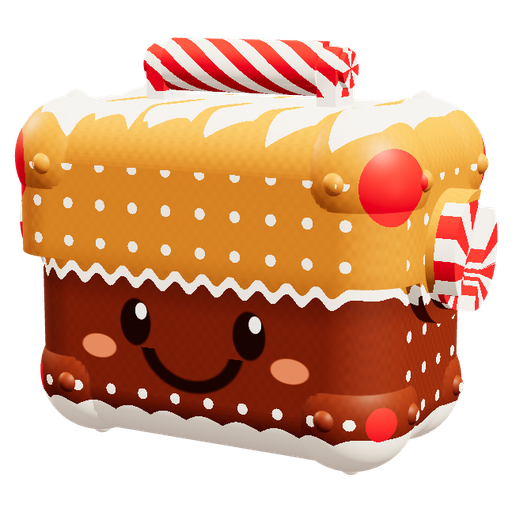
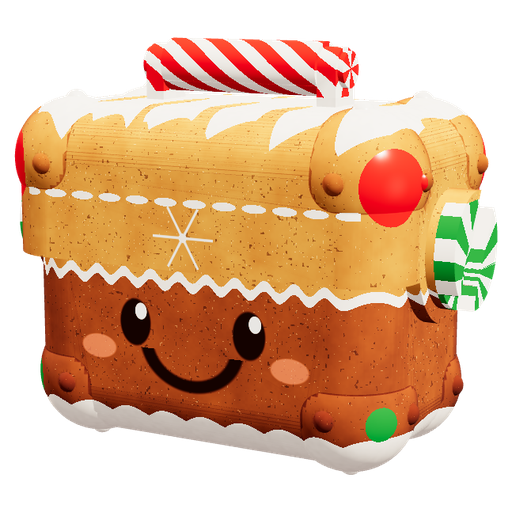
Ginger Box: real gingerbread look (baked dough with spice specks, darker baked edges, glossy royal icing, snowflake, red and green gumdrops)

diff --git a/templates/index.html b/templates/index.html
@@ -25,5 +25,5 @@
   <div class="crafter-launch-date" id="crafter-launch-date"></div>
   <button type="button" class="crafter-launch-admin" id="crafter-launch-admin" hidden>Вход для администратора</button>
  </div>
-</div><div id="splash" class="splash splash-v4" role="status" aria-label="Загрузка Crafter"><div class="sv4-glow" aria-hidden="true"></div><div class="sv4-grid" aria-hidden="true"></div><div class="sv4-stage"><div class="sv4-mark" aria-hidden="true"><svg class="sv4-ring" viewBox="0 0 120 120"><circle class="sv4-track" cx="60" cy="60" r="55"/><circle class="sv4-arc" cx="60" cy="60" r="55"/></svg><img class="sv4-logo" src="/static/icons/crafter-192.png" alt="" width="96" height="96" decoding="async" fetchpriority="high"><i class="sv4-spark a"></i><i class="sv4-spark b"></i><i class="sv4-spark c"></i></div><div class="sv4-brand">Crafter</div><div class="sv4-tag">Маркет Telegram-подарков</div><div class="sv4-status"><span>Загрузка</span><div class="splash-progress" role="progressbar" aria-label="Загрузка Crafter" aria-valuemin="0" aria-valuemax="100" aria-valuenow="0"><span class="splash-progress-fill"></span></div></div></div></div><div id="app"><header><span class="winter-currency-balance" role="status" aria-label="Новогодние шары: 0, пока недоступны" title="Новогодние шары — скоро"><img src="/static/assets/crafter-winter-ornament.png" alt="" width="32" height="32" draggable="false"><b>0</b></span><button type="button" class="games-profile-settings" onclick="crafterOpenSettings()" aria-label="Настройки">⚙</button><button class="brand" onclick="go('market')"><span class="crafter-mark">⌁</span><span>Crafter</span></button><div class="craft-header"><button class="info-btn" onclick="craftRules()" aria-label="Как работает крафт">i</button></div><button type="button" class="staking-rules-button" onclick="stakingRules()" aria-label="Правила стейкинга"><span class="staking-rules-dot" aria-hidden="true">i</span> Правила</button><button class="balance" onclick="go('wallet')"><img class="gram-icon" src="/static/assets/gram.svg" alt=""> <b>0 GRAM</b></button></header><main id="main"></main><nav id="nav"></nav></div><dialog id="sheet"><div class="sheet-head"><h2 id="sheet-title"></h2><button class="close" onclick="closeSheet()" aria-label="Закрыть"><svg viewBox="0 0 24 24" width="19" height="19" fill="none" stroke="currentColor" stroke-width="2" stroke-linecap="round" aria-hidden="true"><path d="M5 5 19 19M19 5 5 19"/></svg></button></div><div id="sheet-body"></div></dialog>{% include 'collection.html' %}<div id="toast" role="status"></div><script>setTimeout(function(){var s=document.getElementById("splash");if(s&&!s.classList.contains("finished")){s.classList.add("finished");var m=document.getElementById("main");if(!m.children.length)m.innerHTML="<div class=empty><h2>Не удалось загрузить приложение</h2><p>Проверьте соединение и попробуйте ещё раз.</p><button class=secondary onclick=location.reload()>Повторить</button></div>";}},18000);</script><script src="/static/app.js?v=load4"></script><script src="/static/cube.js"></script><script src="/static/screens.js?v=res4"></script><script src="/static/catalog-ui.js?v=gram4b"></script><script src="/static/cart.js?v=reset2"></script><script src="/static/gift-animation.js?v=avoid-fragment-storm-20261105"></script><script src="/static/forge.js?v=craft-result-balls-20261108-v3"></script><script src="/static/wallet.js?v=deposit-simplified-20261107-v1"></script><script src="/static/auto-payout-admin.js?v=payout-wizard-v2-20261106"></script><script src="/static/runtime.js?v=market-scroll-optimized-20261105"></script><script src="/static/bot-admin.js?v=ph1"></script><script src="/static/collection.js?v=pack-page3r"></script><script src="/static/market-tools.js?v=withdraw-ui-v1"></script><script src="/static/gift-transfer.js?v=telegram-plane-nov04"></script><script src="/static/banner-carousel.js?v=market-features-v1"></script><script src="/static/market-banners.js?v=final-crafter-nov05-v10"></script><script src="/static/inventory-filters.js?v=isolated-model-20261104"></script><script src="/static/i18n-en.js?v=1"></script><script src="/static/preferences.js?v=i18n1"></script><script src="/static/staking.js?v=arena2"></script><script src="/static/crafter-lottie.js?v=event-arena-updates-20261105-v6"></script><script src="/static/leaderboard-designer.js?v=thrones-desktop-20261106-v2"></script><script src="/static/event-page-view.js?v=rank-studio-20261106-v1"></script><script src="/static/events.js?v=unified-season-v1-20261106"></script><script src="/static/resale.js?v=thermos4"></script><script src="/static/auctions.js?v=13"></script><script src="/static/market-features.js?v=collection-preview-pack3"></script><script src="/static/offers.js?v=withdraw-ui-v2"></script><script src="/static/gift-share.js?v=withdraw-ui-v1"></script><script src="/static/arena-banner.js?v=timer-v3-20261106"></script><script src="/static/arena.js?v=glide-aim-20261111"></script><script src="/static/arena-private.js?v=room-switch-bottom-rounded-v1"></script><script src="/static/announcements.js?v=instant-close-20261108-v1"></script><script src="/static/new-year-page.js?v=nyp3"></script><script src="/static/new-year-decor.js?v=garland4"></script><script src="/static/web-login.js?v=launch1"></script><script src="/static/loading.js?v=live-progress-20261108-v1"></script><script src="/static/desktop-nav.js?v=desktop-sidebar-20261108-v1"></script><script src="/static/desktop-side.js?v=1"></script><link rel="stylesheet" href="/static/desktop-side.css?v=2"><script src="/static/site-snow.js?v=snow2"></script><script src="/static/site-maintenance.js?v=launch-flip3"></script><script src="/static/advent.js?v=open2"></script><script src="/static/shop-items.js?v=sizes12"></script><script src="/static/festive-scenes.js?v=4"></script><script src="/static/chests.js?v=12"></script><script src="/static/festive-market.js?v=16"></script><script src="/static/festive-exchange.js?v=1"></script><script src="/static/ny-locks-admin.js?v=3"></script><script src="/static/packs.js?v=buy2"></script><script src="/static/community-events.js?v=goal3"></script><script src="/static/freebies.js?v=4"></script><script src="/static/new-year.js?v=festive7"></script><script src="/static/new-year-rewards.js?v=preview-rewards-20261108-v2"></script><script src="/static/upgrade.js?v=gram5"></script><script src="/static/promo-profile.js?v=many1"></script><script src="/static/star-gifts.js?v=sg9"></script><script src="/static/ui-fixes.js?v=ui1"></script><script src="/static/admin-hide.js?v=2"></script><script src="/static/author.js?v=2"></script><script src="/static/router.js?v=6"></script></body></html>
+</div><div id="splash" class="splash splash-v4" role="status" aria-label="Загрузка Crafter"><div class="sv4-glow" aria-hidden="true"></div><div class="sv4-grid" aria-hidden="true"></div><div class="sv4-stage"><div class="sv4-mark" aria-hidden="true"><svg class="sv4-ring" viewBox="0 0 120 120"><circle class="sv4-track" cx="60" cy="60" r="55"/><circle class="sv4-arc" cx="60" cy="60" r="55"/></svg><img class="sv4-logo" src="/static/icons/crafter-192.png" alt="" width="96" height="96" decoding="async" fetchpriority="high"><i class="sv4-spark a"></i><i class="sv4-spark b"></i><i class="sv4-spark c"></i></div><div class="sv4-brand">Crafter</div><div class="sv4-tag">Маркет Telegram-подарков</div><div class="sv4-status"><span>Загрузка</span><div class="splash-progress" role="progressbar" aria-label="Загрузка Crafter" aria-valuemin="0" aria-valuemax="100" aria-valuenow="0"><span class="splash-progress-fill"></span></div></div></div></div><div id="app"><header><span class="winter-currency-balance" role="status" aria-label="Новогодние шары: 0, пока недоступны" title="Новогодние шары — скоро"><img src="/static/assets/crafter-winter-ornament.png" alt="" width="32" height="32" draggable="false"><b>0</b></span><button type="button" class="games-profile-settings" onclick="crafterOpenSettings()" aria-label="Настройки">⚙</button><button class="brand" onclick="go('market')"><span class="crafter-mark">⌁</span><span>Crafter</span></button><div class="craft-header"><button class="info-btn" onclick="craftRules()" aria-label="Как работает крафт">i</button></div><button type="button" class="staking-rules-button" onclick="stakingRules()" aria-label="Правила стейкинга"><span class="staking-rules-dot" aria-hidden="true">i</span> Правила</button><button class="balance" onclick="go('wallet')"><img class="gram-icon" src="/static/assets/gram.svg" alt=""> <b>0 GRAM</b></button></header><main id="main"></main><nav id="nav"></nav></div><dialog id="sheet"><div class="sheet-head"><h2 id="sheet-title"></h2><button class="close" onclick="closeSheet()" aria-label="Закрыть"><svg viewBox="0 0 24 24" width="19" height="19" fill="none" stroke="currentColor" stroke-width="2" stroke-linecap="round" aria-hidden="true"><path d="M5 5 19 19M19 5 5 19"/></svg></button></div><div id="sheet-body"></div></dialog>{% include 'collection.html' %}<div id="toast" role="status"></div><script>setTimeout(function(){var s=document.getElementById("splash");if(s&&!s.classList.contains("finished")){s.classList.add("finished");var m=document.getElementById("main");if(!m.children.length)m.innerHTML="<div class=empty><h2>Не удалось загрузить приложение</h2><p>Проверьте соединение и попробуйте ещё раз.</p><button class=secondary onclick=location.reload()>Повторить</button></div>";}},18000);</script><script src="/static/app.js?v=load4"></script><script src="/static/cube.js"></script><script src="/static/screens.js?v=res4"></script><script src="/static/catalog-ui.js?v=gram4b"></script><script src="/static/cart.js?v=reset2"></script><script src="/static/gift-animation.js?v=avoid-fragment-storm-20261105"></script><script src="/static/forge.js?v=craft-result-balls-20261108-v3"></script><script src="/static/wallet.js?v=deposit-simplified-20261107-v1"></script><script src="/static/auto-payout-admin.js?v=payout-wizard-v2-20261106"></script><script src="/static/runtime.js?v=market-scroll-optimized-20261105"></script><script src="/static/bot-admin.js?v=ph1"></script><script src="/static/collection.js?v=pack-page3r"></script><script src="/static/market-tools.js?v=withdraw-ui-v1"></script><script src="/static/gift-transfer.js?v=telegram-plane-nov04"></script><script src="/static/banner-carousel.js?v=market-features-v1"></script><script src="/static/market-banners.js?v=final-crafter-nov05-v10"></script><script src="/static/inventory-filters.js?v=isolated-model-20261104"></script><script src="/static/i18n-en.js?v=1"></script><script src="/static/preferences.js?v=i18n1"></script><script src="/static/staking.js?v=arena2"></script><script src="/static/crafter-lottie.js?v=event-arena-updates-20261105-v6"></script><script src="/static/leaderboard-designer.js?v=thrones-desktop-20261106-v2"></script><script src="/static/event-page-view.js?v=rank-studio-20261106-v1"></script><script src="/static/events.js?v=unified-season-v1-20261106"></script><script src="/static/resale.js?v=thermos4"></script><script src="/static/auctions.js?v=13"></script><script src="/static/market-features.js?v=collection-preview-pack3"></script><script src="/static/offers.js?v=withdraw-ui-v2"></script><script src="/static/gift-share.js?v=withdraw-ui-v1"></script><script src="/static/arena-banner.js?v=timer-v3-20261106"></script><script src="/static/arena.js?v=glide-aim-20261111"></script><script src="/static/arena-private.js?v=room-switch-bottom-rounded-v1"></script><script src="/static/announcements.js?v=instant-close-20261108-v1"></script><script src="/static/new-year-page.js?v=nyp3"></script><script src="/static/new-year-decor.js?v=garland4"></script><script src="/static/web-login.js?v=launch1"></script><script src="/static/loading.js?v=live-progress-20261108-v1"></script><script src="/static/desktop-nav.js?v=desktop-sidebar-20261108-v1"></script><script src="/static/desktop-side.js?v=1"></script><link rel="stylesheet" href="/static/desktop-side.css?v=2"><script src="/static/site-snow.js?v=snow2"></script><script src="/static/site-maintenance.js?v=launch-flip3"></script><script src="/static/advent.js?v=open2"></script><script src="/static/shop-items.js?v=sizes12"></script><script src="/static/festive-scenes.js?v=4"></script><script src="/static/chests.js?v=13"></script><script src="/static/festive-market.js?v=16"></script><script src="/static/festive-exchange.js?v=1"></script><script src="/static/ny-locks-admin.js?v=3"></script><script src="/static/packs.js?v=buy2"></script><script src="/static/community-events.js?v=goal3"></script><script src="/static/freebies.js?v=4"></script><script src="/static/new-year.js?v=festive7"></script><script src="/static/new-year-rewards.js?v=preview-rewards-20261108-v2"></script><script src="/static/upgrade.js?v=gram5"></script><script src="/static/promo-profile.js?v=many1"></script><script src="/static/star-gifts.js?v=sg9"></script><script src="/static/ui-fixes.js?v=ui1"></script><script src="/static/admin-hide.js?v=2"></script><script src="/static/author.js?v=2"></script><script src="/static/router.js?v=6"></script></body></html>
 

diff --git a/static/chests.js b/static/chests.js
@@ -27,45 +27,67 @@ const models = new Map();                                          // a model is
    honey lid, cinnamon body, white icing with drips, candy red handle, bolts and latch, a cute face */
 const PAINT_FRAG = `
 varying vec3 vP; varying vec3 vN;
+float gShiny = 0.0;
+float hash3(vec3 p) { p = fract(p * 0.3183099 + 0.1); p *= 17.0; return fract(p.x * p.y * p.z * (p.x + p.y + p.z)); }
+float vnoise(vec3 x) {
+    vec3 i = floor(x), f = fract(x); f = f * f * (3.0 - 2.0 * f);
+    return mix(mix(mix(hash3(i), hash3(i + vec3(1, 0, 0)), f.x), mix(hash3(i + vec3(0, 1, 0)), hash3(i + vec3(1, 1, 0)), f.x), f.y),
+               mix(mix(hash3(i + vec3(0, 0, 1)), hash3(i + vec3(1, 0, 1)), f.x), mix(hash3(i + vec3(0, 1, 1)), hash3(i + vec3(1, 1, 1)), f.x), f.y), f.z);
+}
 float disc(vec2 p, vec2 c, vec2 r) { vec2 q = (p - c) / r; return 1.0 - smoothstep(0.86, 1.0, length(q)); }
+float flake(vec2 p, vec2 c, float r) {                                   // a six-armed snowflake made of icing
+    vec2 d = p - c; float rad = length(d) / r, an = atan(d.y, d.x);
+    float arm = smoothstep(0.16, 0.05, abs(sin(an * 3.0)) * rad) * step(rad, 1.0);
+    float twig = smoothstep(0.16, 0.05, abs(sin(an * 3.0 + 1.5708 * 0.0)) * abs(fract(rad * 2.4) - 0.5) * 1.4) * step(0.3, rad) * step(rad, 0.92) * 0.0;
+    return max(arm, step(rad, 0.13));
+}
 vec3 gingerPaint(vec3 p, vec3 n) {
-    vec3 honey = vec3(0.86, 0.5, 0.15), cinn = vec3(0.5, 0.21, 0.07), icing = vec3(1.0, 0.96, 0.9), candy = vec3(0.78, 0.07, 0.12), choc = vec3(0.17, 0.07, 0.03);
+    vec3 icing = vec3(1.0, 0.97, 0.93), candy = vec3(0.8, 0.06, 0.1), green = vec3(0.1, 0.5, 0.2), choc = vec3(0.16, 0.07, 0.03);
     float y = p.y, ax = abs(p.x), az = abs(p.z);
-    vec3 col = y > 12.0 ? honey : cinn;
-    // baked look: a little darker towards the seam and the foot, lighter on the tops
-    col *= 0.86 + 0.2 * smoothstep(-0.3, 1.0, n.y);
-    col *= 0.88 + 0.12 * smoothstep(0.0, 4.0, y) * smoothstep(0.0, 2.5, abs(y - 12.0));
-    // fine crumb texture
-    col *= 0.96 + 0.04 * sin(p.x * 7.3) * sin(p.y * 6.1) * sin(p.z * 8.7);
-    // rows of icing pearls on the lid walls and the body walls
-    vec2 c1 = fract(vec2(p.x, y) / 2.6) - 0.5;
-    if (abs(n.z) > 0.85 && y > 13.6 && y < 19.6 && ax < 12.5 && length(c1) < 0.15) col = icing;
-    if (abs(n.z) > 0.85 && y > 3.4 && y < 5.6 && ax < 12.5 && length(c1) < 0.15) col = icing;
-    if (abs(n.x) > 0.85 && y > 3.4 && y < 19.6 && az < 6.4 && length(fract(vec2(p.z, y) / 2.6) - 0.5) < 0.15) col = icing;
-    // white icing on the top of the lid with a scalloped, dripping edge
-    float scal = 21.4 + 1.5 * abs(sin(p.x * 0.62 + p.z * 0.31)) + 1.1 * smoothstep(0.7, 1.0, sin(p.x * 1.4 + 0.8) * 0.5 + 0.5);
-    if (y > scal) col = icing;
-    // piping: at the foot and a zigzag on the seam
-    if (y < 2.4 + 0.5 * abs(sin(p.x * 1.1 + p.z * 0.5))) col = icing;
-    float seam = abs(y - 12.0 - 0.38 * sin(p.x * 3.0 + p.z * 3.0));
-    if (seam < 0.38) col = icing;
-    // the face on the front of the body: two big eyes with shine, a smile and blush
+    // baked dough: soft cloudy colour, spice specks, sugar sparkles
+    float cloud = vnoise(p * 0.55) * 0.6 + vnoise(p * 1.7) * 0.3 + vnoise(p * 5.0) * 0.1;
+    vec3 doughLight = vec3(0.84, 0.5, 0.18), doughDark = vec3(0.52, 0.24, 0.08);
+    vec3 col = y > 12.0 ? mix(doughLight * 0.95, vec3(0.93, 0.62, 0.26), cloud) : mix(doughDark, vec3(0.7, 0.34, 0.12), cloud);
+    float speck = step(0.88, vnoise(p * 6.0)) * (0.35 + 0.65 * vnoise(p * 11.0));
+    col = mix(col, choc, speck * 0.55);
+    float sugar = step(0.93, vnoise(p * 9.0 + 3.0));
+    col += sugar * 0.18;
+    // the edges of the cookie are baked darker (found by how fast the normal turns)
+    float edge = clamp(length(fwidth(n)) * 9.0, 0.0, 1.0);
+    col = mix(col, col * vec3(0.62, 0.45, 0.3), edge * 0.8);
+    col *= 0.88 + 0.2 * smoothstep(-0.3, 1.0, n.y);
+    gShiny = 0.0;
+    // royal icing: the cap of the lid with a wavy dripping edge, the piping at the foot and on the seam, the frame of the front
+    float scal = 21.2 + 1.7 * abs(sin(p.x * 0.6 + p.z * 0.3)) + 1.3 * smoothstep(0.65, 1.0, sin(p.x * 1.35 + 0.7) * 0.5 + 0.5);
+    float ic = 0.0;
+    if (y > scal) ic = 1.0;
+    if (y < 2.3 + 0.55 * abs(sin(p.x * 1.05 + p.z * 0.5))) ic = 1.0;
+    if (abs(y - 12.0 - 0.36 * sin(p.x * 2.9 + p.z * 2.9)) < 0.36) ic = 1.0;
+    // beaded line under the cap and above the foot
+    vec2 bead = fract(vec2(p.x + p.z, y) / vec2(2.2, 1.0)) - 0.5;
+    if (abs(n.z) > 0.8 && abs(y - 17.4) < 0.5 && ax < 12.6 && length(bead * vec2(1.0, 1.4)) < 0.4) ic = 1.0;
+    // a snowflake on the lid walls, a heart-shaped loop of icing is left to the face
+    if (abs(n.z) > 0.8 && ax < 12.0) ic = max(ic, flake(vec2(p.x, y), vec2(0.0, 15.2), 2.3));
+    col = mix(col, icing * (0.96 + 0.04 * vnoise(p * 3.0)), ic);
+    gShiny = max(gShiny, ic);
+    // the face on the front of the body
     if (p.z > 0.0 && n.z > 0.6 && ax < 11.5 && y < 11.4) {
         vec2 f = vec2(p.x, y);
         float eye = max(disc(f, vec2(-4.4, 8.9), vec2(1.3, 1.75)), disc(f, vec2(4.4, 8.9), vec2(1.3, 1.75)));
         float shine = max(disc(f, vec2(-3.95, 9.7), vec2(0.5, 0.62)), disc(f, vec2(4.85, 9.7), vec2(0.5, 0.62)));
         float blush = max(disc(f, vec2(-7.4, 6.9), vec2(1.5, 0.9)), disc(f, vec2(7.4, 6.9), vec2(1.5, 0.9)));
         float sm = (1.0 - smoothstep(0.3, 0.55, abs(length(vec2(f.x * 0.85, f.y - 7.9)) - 3.0))) * step(f.y, 7.2);
-        col = mix(col, vec3(1.0, 0.55, 0.45), blush * 0.7);
+        col = mix(col, vec3(1.0, 0.52, 0.42), blush * 0.6);
         col = mix(col, choc, max(eye, sm));
         col = mix(col, vec3(1.0), shine);
+        gShiny = max(gShiny, max(eye, sm) * 0.8);
     }
-    // candy: the handle in stripes, the latch like a peppermint, bolts like gumdrops
-    float stripe = step(0.5, fract(p.x * 0.34 + atan(y - 26.0, p.z) * 0.8));
-    if (y > 24.1 && ax < 8.4) col = mix(candy, icing, stripe);
-    if (ax > 15.6 && y > 8.4 && y < 17.8) col = mix(candy, icing, step(0.5, fract(atan(y - 13.0, p.z) * 1.6)));
-    float bolt = min(length(vec3(ax - 15.4, y - 3.7, az - 8.3)), length(vec3(ax - 15.4, y - 19.3, az - 8.3)));
-    if (bolt < 2.9) col = mix(candy, vec3(1.0, 0.45, 0.45), smoothstep(1.6, 0.0, bolt) * 0.5);
+    // candy: the handle in stripes, the latch like a peppermint, bolts like gumdrops (red and green)
+    if (y > 24.1 && ax < 8.4) { col = mix(candy, icing, step(0.5, fract(p.x * 0.34 + atan(y - 26.0, p.z) * 0.8))); gShiny = 1.0; }
+    if (ax > 15.6 && y > 8.4 && y < 17.8) { col = mix(green, icing, step(0.5, fract(atan(y - 13.0, p.z) * 1.6))); gShiny = 1.0; }
+    float b1 = length(vec3(ax - 15.4, y - 3.7, az - 8.3)), b2 = length(vec3(ax - 15.4, y - 19.3, az - 8.3));
+    float bolt = min(b1, b2);
+    if (bolt < 2.9) { col = mix(b2 < b1 ? candy : green, vec3(1.0, 0.7, 0.6), smoothstep(1.7, 0.0, bolt) * 0.45); gShiny = 1.0; }
     return pow(col, vec3(2.2));                                                    // the colours above are sRGB, the shader works in linear
 }`;
 function paintModel(gltf) {
@@ -78,9 +100,9 @@ function paintModel(gltf) {
         const mat = m.material;
         mat.onBeforeCompile = sh => {
             sh.vertexShader = sh.vertexShader.replace('#include <common>', '#include <common>\nvarying vec3 vP; varying vec3 vN;').replace('#include <begin_vertex>', '#include <begin_vertex>\nvP = position; vN = normal;');
-            sh.fragmentShader = sh.fragmentShader.replace('#include <common>', '#include <common>\n' + PAINT_FRAG).replace('#include <color_fragment>', '#include <color_fragment>\ndiffuseColor.rgb = gingerPaint(vP, normalize(vN));');
+            sh.fragmentShader = sh.fragmentShader.replace('#include <common>', '#include <common>\n' + PAINT_FRAG).replace('#include <color_fragment>', '#include <color_fragment>\ndiffuseColor.rgb = gingerPaint(vP, normalize(vN));').replace('#include <roughnessmap_fragment>', '#include <roughnessmap_fragment>\nroughnessFactor = mix(0.9, 0.22, gShiny);');
         };
-        mat.customProgramCacheKey = () => 'ginger-paint-5';
+        mat.customProgramCacheKey = () => 'ginger-paint-6';
         mat.needsUpdate = true;
     });
     return gltf;

diff --git a/templates/admin.html b/templates/admin.html
@@ -38,7 +38,7 @@
     <script src="/static/admin-banners.js?v=final-crafter-nov05-v9"></script>
     <script src="/static/telegram-deposits-admin.js?v=recover1"></script>
     <script src="/static/staking-admin.js?v=staking-nov04"></script>
-    <script src="/static/admin-user-tools.js?v=grant-balls-20261108-v3"></script><script src="/static/admin-withdrawals.js?v=withdrawals-20261109"></script><script src="/static/admin-creators.js?v=3"></script><script src="/static/arena-admin.js?v=event-arena-updates-20261105-v6"></script><script src="/static/arena-banner.js?v=timer-v3-20261106"></script><script src="/static/leaderboard-designer.js?v=thrones-desktop-20261106-v2"></script><script src="/static/leaderboard-editor.js?v=thrones-desktop-20261106-v2"></script><script src="/static/ice-banner-admin.js?v=copy-ice-rank-studio-v1"></script><script src="/static/events-admin.js?v=rank-studio-20261106-v1"></script><script src="/static/site-snow-admin.js?v=global-snow-v1"></script><script src="/static/event-studio.js?v=rank-studio-20261106-v1"></script><script src="/static/announcements.js?v=announcement-fallback-20261106"></script><script src="/static/announcements-admin.js?v=announcement-layout-20261106"></script><script src="/static/portals-partner-admin.js?v=portals-partner-v2"></script><script src="/static/admin-console-ui.js?v=reset2-g4"></script><script src="/static/thermos-admin.js?v=as10"></script><script src="/static/advent.js?v=open2"></script><script src="/static/shop-items.js?v=sizes12"></script><script src="/static/festive-scenes.js?v=4"></script><script src="/static/chests.js?v=12"></script><script src="/static/festive-market.js?v=16"></script><script src="/static/festive-exchange.js?v=1"></script><script src="/static/shop-exchange.js?v=3"></script><script src="/static/freebies.js?v=4"></script><script src="/static/freebies-admin.js?v=5"></script><script src="/static/chests-admin.js?v=2"></script><script src="/static/ny-locks-admin.js?v=3"></script><script src="/static/packs.js?v=many1"></script><script src="/static/community-events.js?v=cm12"></script><script src="/static/new-year.js?v=ny2-hub1"></script><script src="/static/promocodes-admin.js?v=adm1"></script><script src="/static/admin-page.js?v=reset2"></script>
+    <script src="/static/admin-user-tools.js?v=grant-balls-20261108-v3"></script><script src="/static/admin-withdrawals.js?v=withdrawals-20261109"></script><script src="/static/admin-creators.js?v=3"></script><script src="/static/arena-admin.js?v=event-arena-updates-20261105-v6"></script><script src="/static/arena-banner.js?v=timer-v3-20261106"></script><script src="/static/leaderboard-designer.js?v=thrones-desktop-20261106-v2"></script><script src="/static/leaderboard-editor.js?v=thrones-desktop-20261106-v2"></script><script src="/static/ice-banner-admin.js?v=copy-ice-rank-studio-v1"></script><script src="/static/events-admin.js?v=rank-studio-20261106-v1"></script><script src="/static/site-snow-admin.js?v=global-snow-v1"></script><script src="/static/event-studio.js?v=rank-studio-20261106-v1"></script><script src="/static/announcements.js?v=announcement-fallback-20261106"></script><script src="/static/announcements-admin.js?v=announcement-layout-20261106"></script><script src="/static/portals-partner-admin.js?v=portals-partner-v2"></script><script src="/static/admin-console-ui.js?v=reset2-g4"></script><script src="/static/thermos-admin.js?v=as10"></script><script src="/static/advent.js?v=open2"></script><script src="/static/shop-items.js?v=sizes12"></script><script src="/static/festive-scenes.js?v=4"></script><script src="/static/chests.js?v=13"></script><script src="/static/festive-market.js?v=16"></script><script src="/static/festive-exchange.js?v=1"></script><script src="/static/shop-exchange.js?v=3"></script><script src="/static/freebies.js?v=4"></script><script src="/static/freebies-admin.js?v=5"></script><script src="/static/chests-admin.js?v=2"></script><script src="/static/ny-locks-admin.js?v=3"></script><script src="/static/packs.js?v=many1"></script><script src="/static/community-events.js?v=cm12"></script><script src="/static/new-year.js?v=ny2-hub1"></script><script src="/static/promocodes-admin.js?v=adm1"></script><script src="/static/admin-page.js?v=reset2"></script>
     <script src="/static/preferences.js?v=inv2"></script>
 <script src="/static/site-snow.js?v=global-snow-v1"></script><script src="/static/star-gifts-admin.js?v=sg9"></script><script src="/static/ui-fixes.js?v=ui1"></script></body>
 </html>

diff --git a/templates/shop_preview.html b/templates/shop_preview.html
@@ -21,7 +21,7 @@ window.toast = function () {};
 window.api = function () { return Promise.reject(new Error('Это предпросмотр')); };
 </script>
 <script src="/static/shop-items.js?v=sizes12"></script>
-<script src="/static/festive-scenes.js?v=4"></script><script src="/static/chests.js?v=12"></script><script src="/static/festive-market.js?v=16"></script>
+<script src="/static/festive-scenes.js?v=4"></script><script src="/static/chests.js?v=13"></script><script src="/static/festive-market.js?v=16"></script>
 <script>
 (function () {
     var main = document.getElementById('main');
